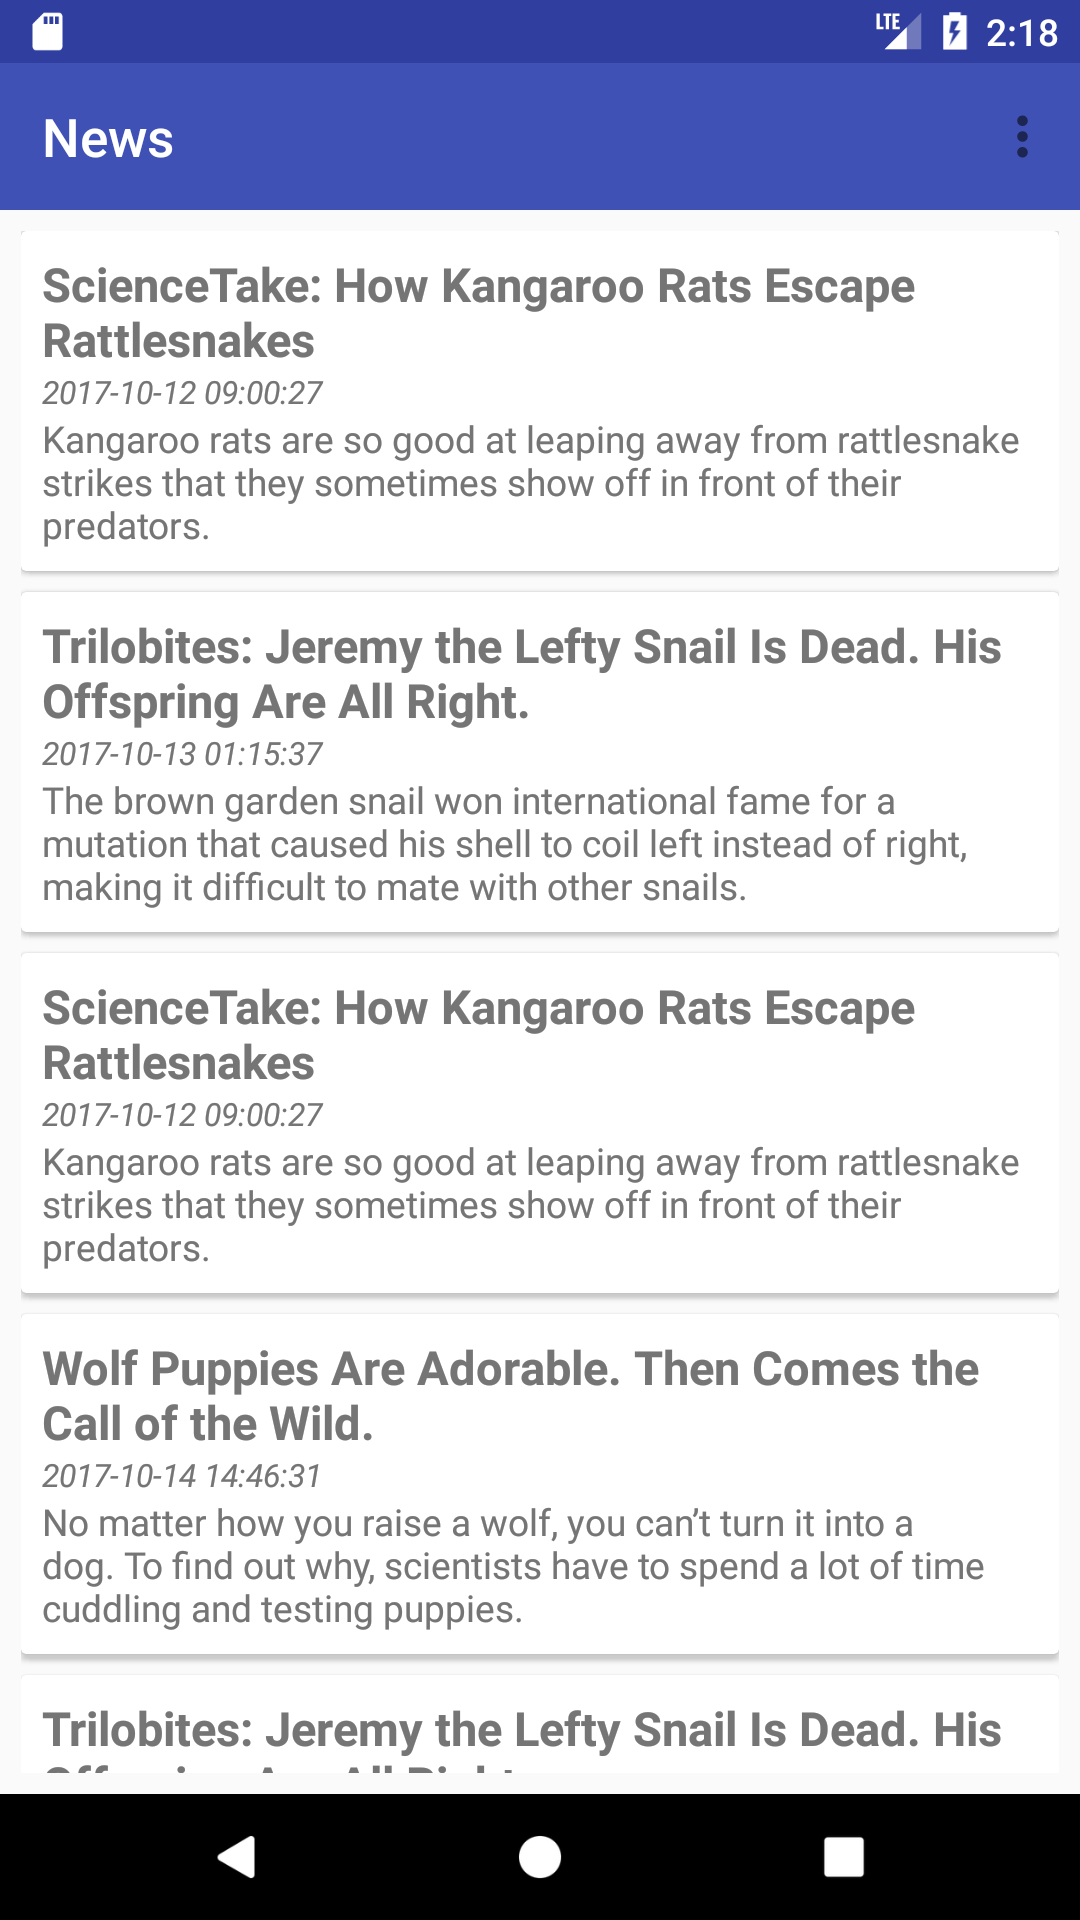
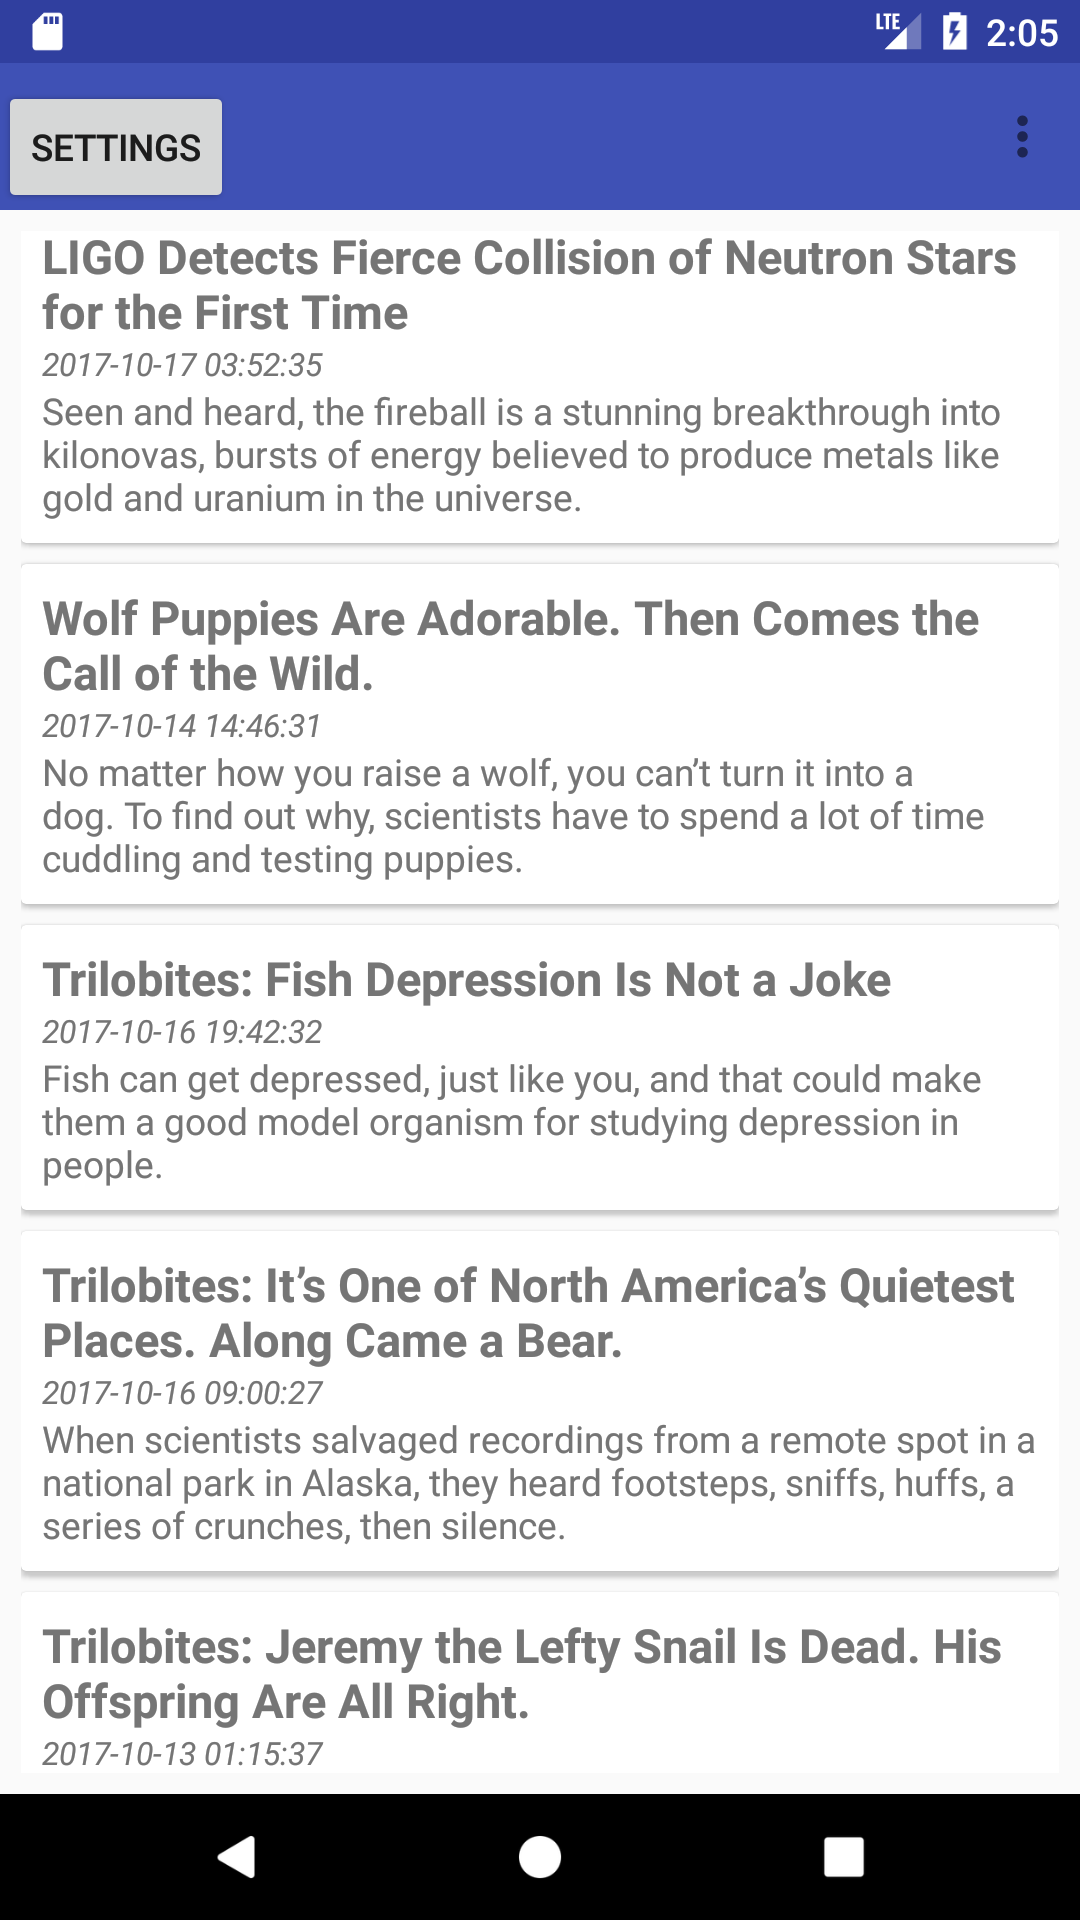
added preferences view, added screenshots, some comments also

Changed region(s): [[0.0, 0.0312, 0.9778, 0.9375], [0.9472, 0.0, 0.9778, 0.0312]]

diff --git a/app/src/main/java/com/jukkanikki/plainrssreader/FeedActivity.java b/app/src/main/java/com/jukkanikki/plainrssreader/FeedActivity.java
@@ -2,8 +2,13 @@ package com.jukkanikki.plainrssreader;
 
 import android.app.ProgressDialog;
 import android.content.Context;
+import android.content.Intent;
+import android.content.SharedPreferences;
+import android.net.Uri;
 import android.os.AsyncTask;
 import android.os.Bundle;
+import android.preference.PreferenceManager;
+import android.support.annotation.NonNull;
 import android.support.design.widget.FloatingActionButton;
 import android.support.design.widget.Snackbar;
 import android.support.v7.app.AppCompatActivity;
@@ -21,26 +26,25 @@ import com.jukkanikki.plainrssreader.model.FeedWrapper;
 
 public class FeedActivity extends AppCompatActivity {
 
-    private RecyclerView recyclerView;
+    private static final String KEY_PREF_SOURCE = "rss_source";
 
-    //RSS link
-    private final static String RSS_link="http://rss.nytimes.com/services/xml/rss/nyt/Science.xml";
-    private final static String RSS_to_Json_API = "https://api.rss2json.com/v1/api.json?rss_url=";
+    private final static String DEFAULT_RSS_URL ="http://rss.nytimes.com/services/xml/rss/nyt/Science.xml";
+    private final static String RSS_TO_JSON_API_API = "https://api.rss2json.com/v1/api.json?rss_url=";
+
+    private RecyclerView recyclerView;
 
     @Override
     protected void onCreate(Bundle savedInstanceState) {
         super.onCreate(savedInstanceState);
         setContentView(R.layout.activity_feed);
 
-        Toolbar toolbar = (Toolbar) findViewById(R.id.toolbar);
+        Toolbar toolbar = findViewById(R.id.toolbar);
         toolbar.setTitle("News");
         setSupportActionBar(toolbar);
 
-
-        recyclerView = (RecyclerView)findViewById(R.id.recyclerView);
+        recyclerView = findViewById(R.id.recyclerView);
         LinearLayoutManager linearLayoutManager  = new LinearLayoutManager(getBaseContext(),LinearLayoutManager.VERTICAL,false);
         recyclerView.setLayoutManager(linearLayoutManager);
-
     }
 
     @Override
@@ -70,6 +74,9 @@ public class FeedActivity extends AppCompatActivity {
         return super.onOptionsItemSelected(item);
     }
 
+    /**
+     * Load rss feed content asynchronously
+     */
     private void loadRSS() {
         AsyncTask<String, String, String> loadRSSAsync = new AsyncTask<String, String, String>() {
 
@@ -84,14 +91,32 @@ public class FeedActivity extends AppCompatActivity {
 
             @Override
             protected void onPostExecute(String s) {
-                FeedWrapper rssObject = new Gson().fromJson(s, FeedWrapper.class);
-                FeedAdapter adapter = new FeedAdapter(rssObject, getBaseContext());
+                FeedWrapper feed = new Gson().fromJson(s, FeedWrapper.class);
+                FeedAdapter adapter = new FeedAdapter(feed, getBaseContext());
                 recyclerView.setAdapter(adapter);
                 adapter.notifyDataSetChanged();
             }
         };
 
-        loadRSSAsync.execute(String.format("%s%s",RSS_to_Json_API,RSS_link));
+        String rssUrl = getRssUrl();
+        loadRSSAsync.execute(String.format("%s%s", RSS_TO_JSON_API_API ,rssUrl));
     }
 
+    /**
+     * Reads url, and uses default if preferences is empty
+     */
+     @NonNull
+    private String getRssUrl() {
+        SharedPreferences sharedPref = PreferenceManager.getDefaultSharedPreferences(this);
+        return sharedPref.getString(KEY_PREF_SOURCE, DEFAULT_RSS_URL);
+    }
+
+    /**
+     * Opens settings activity
+     * @param view button which onClick handler this method is
+     */
+    public void openSettings(View view) {
+        Intent settingsIntent = new Intent(this,SettingsActivity.class);
+        startActivity(settingsIntent);
+    }
 }

diff --git a/app/src/main/java/com/jukkanikki/plainrssreader/SettingsActivity.java b/app/src/main/java/com/jukkanikki/plainrssreader/SettingsActivity.java
@@ -1,0 +1,33 @@
+package com.jukkanikki.plainrssreader;
+
+import android.app.FragmentManager;
+import android.app.FragmentTransaction;
+import android.preference.PreferenceFragment;
+import android.support.v7.app.AppCompatActivity;
+import android.os.Bundle;
+
+public class SettingsActivity extends AppCompatActivity {
+
+    @Override
+    protected void onCreate(Bundle savedInstanceState) {
+        super.onCreate(savedInstanceState);
+
+        // Display the fragment as the main content.
+        FragmentManager fragmentManager = getFragmentManager();
+        FragmentTransaction fragmentTransaction = fragmentManager.beginTransaction();
+        PrefsFragment prefsFragment = new PrefsFragment();
+        fragmentTransaction.replace(android.R.id.content, prefsFragment);
+        fragmentTransaction.commit();
+    }
+
+    public static class PrefsFragment extends PreferenceFragment {
+
+        @Override
+        public void onCreate(Bundle savedInstanceState) {
+            super.onCreate(savedInstanceState);
+
+            // Load the preferences from an XML resource
+            addPreferencesFromResource(R.xml.preferences);
+        }
+    }
+}

diff --git a/README.md b/README.md
@@ -49,4 +49,8 @@ Selected item
 [list]: https://github.com/nikkijuk/PlainRssReader/blob/master/docs/news-list.png "List of feeds"
 [item]: https://github.com/nikkijuk/PlainRssReader/blob/master/docs/news-item.png "Feed item"
 
+Helpful articles
 
+https://willowtreeapps.com/ideas/android-fundamentals-working-with-the-recyclerview-adapter-and-viewholder-pattern/
+
+http://www.cs.dartmouth.edu/~campbell/cs65/lecture12/lecture12.html
